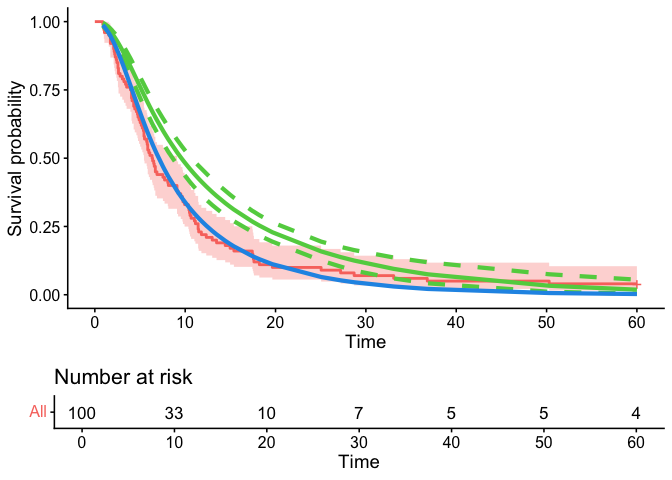
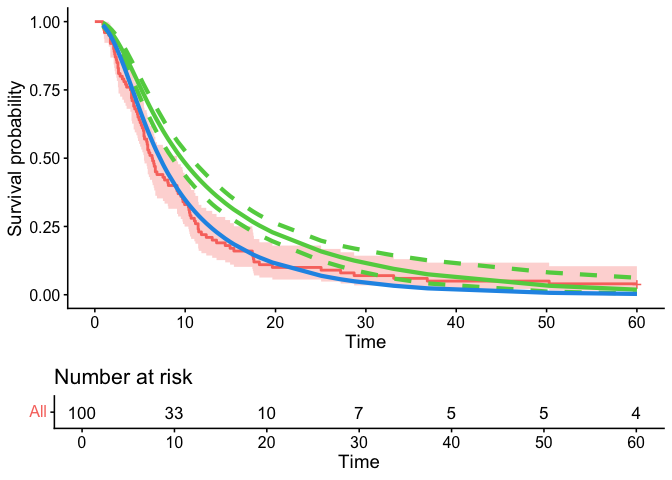
updated readme

diff --git a/README.md b/README.md
@@ -28,12 +28,8 @@ This is a basic example which shows you how to solve a common problem:
 
 ``` r
 library(psc)
-#> Warning: replacing previous import 'posterior::var' by 'stats::var' when
-#> loading 'psc'
-#> Warning: replacing previous import 'posterior::sd' by 'stats::sd' when loading
-#> 'psc'
-#> Warning: replacing previous import 'posterior::mad' by 'stats::mad' when
-#> loading 'psc'
+#> Loading required package: survival
+#> Loading required package: ggplot2
 library(survival)
 ## basic example code
 
@@ -63,12 +59,12 @@ summary(surv.psc)
 #> CFM Formula: 
 #> Surv(time, cen) ~ vi/age60 + ecog + allmets + logafp + alb + 
 #>     logcreat + logast + aet
-#> <environment: 0x11b23ef28>
+#> <environment: 0x116b6fd60>
 #> 
 #> CFM Summary: 
 #> Expected response for the outcome under the CFM:
 #>      S      lo      hi  
-#>  9.694   9.094  10.653  
+#>  9.694   9.094  11.013  
 #> 
 #> Observed outcome from the Data Cohort:
 #>          [,1] 
@@ -78,8 +74,8 @@ summary(surv.psc)
 #> 
 #> MCMC Fit: 
 #> Posterior Distribution obtaine with fit summary:
-#>       variable    rhat        ess_bulk    ess_tail    mcse_mean 
-#> [1,]  beta_1      1.000707    4222.245    3977.807    0.00151382
+#>       variable     rhat         ess_bulk     ess_tail     mcse_mean  
+#> [1,]  beta_1       1.001575     1157.117     1022.026     0.002900963
 #> 
 #> Summary: 
 #> Posterior Distribution for beta:Call:
@@ -87,17 +83,17 @@ summary(surv.psc)
 #> 
 #> Coefficients:
 #>            variable    mean        sd          median      q5        
-#> posterior  beta_1      0.395547    0.09849599  0.3994494   0.229423  
+#> posterior  beta_1      0.3707433   0.09903147  0.3708735   0.2103505 
 #>            q95       
-#> posterior  0.5514348
+#> posterior  0.5420673
 ```
 
 … and to see a plot of what you have done
 
     #>            variable    mean        sd          median      q5        
-    #> posterior  beta_1      0.395547    0.09849599  0.3994494   0.229423  
+    #> posterior  beta_1      0.3707433   0.09903147  0.3708735   0.2103505 
     #>            q95       
-    #> posterior  0.5514348
+    #> posterior  0.5420673
     #> Warning: Using `size` aesthetic for lines was deprecated in ggplot2 3.4.0.
     #> ℹ Please use `linewidth` instead.
     #> ℹ The deprecated feature was likely used in the ggpubr package.
